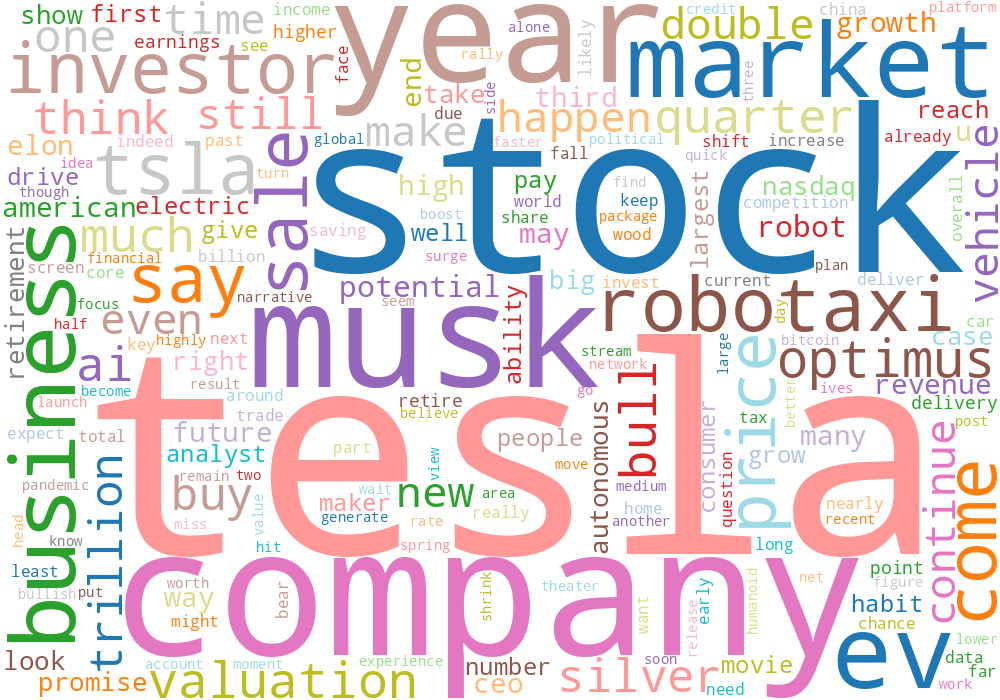
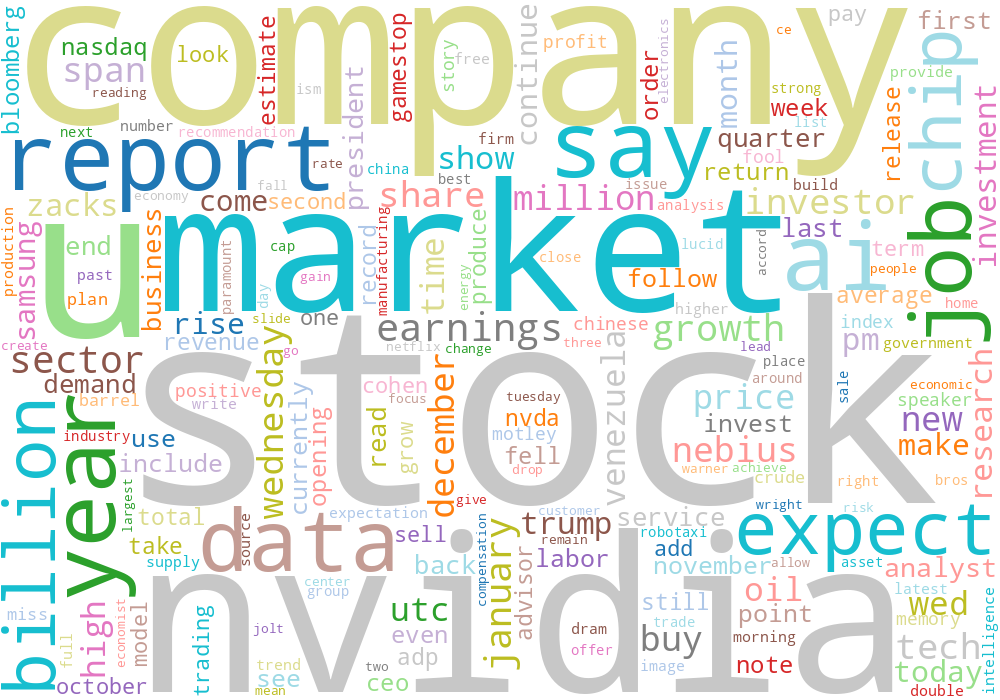
integrated text analyzer into stock analysis

diff --git a/analyze.py b/analyze.py
@@ -116,50 +116,51 @@ def cleanseWordList(posTaggedWordTuples):
     return cleansedWords
 
 
-# Get user details
-welcome_user()
-username = get_username()
-greet_user(username)
 
-# Extract and tokenize text
-articleTextRaw = getArticleText()
-articleSentences = tokenizeSentences(articleTextRaw)
-articleWords = tokenizeWords(articleSentences)
+def analyzeText(textToAnalyze):
+    articleSentences = tokenizeSentences(textToAnalyze)
+    articleWords = tokenizeWords(articleSentences)
 
-# Analytics
-stockSearchPattern = "[0-9]|[%$€£]|thousand|million|billion|trillion|profit|loss/g"
-keySentences = extractKeySentences(articleSentences, stockSearchPattern)
-wordsPerSentence = getWordsPerSentence(articleSentences)
+    # Analytics
+    stockSearchPattern = "[0-9]|[%$€£]|thousand|million|billion|trillion|profit|loss/g"
+    keySentences = extractKeySentences(articleSentences, stockSearchPattern)
+    wordsPerSentence = getWordsPerSentence(articleSentences)
 
-# Get word analytics
-wordsPosTagged = nltk.pos_tag(articleWords)
-articleWordsCleansed = cleanseWordList(wordsPosTagged)
+    # Get word analytics
+    wordsPosTagged = nltk.pos_tag(articleWords)
+    articleWordsCleansed = cleanseWordList(wordsPosTagged)
 
-# Generate word cloud
-seperator = " "
-wordCloudFilePath = "results/wordcloud.png"
-wordcloud = WordCloud(width = 1000, height = 700, random_state = 1, background_color = "white", colormap = "tab20", collocations = False).generate(seperator.join(articleWordsCleansed))
-wordcloud.to_file(wordCloudFilePath)
+    # Generate word cloud
+    seperator = " "
+    wordCloudFilePath = "results/wordcloud.png"
+    wordcloud = WordCloud(width = 1000, height = 700, random_state = 1, background_color = "white", colormap = "tab20", collocations = False).generate(seperator.join(articleWordsCleansed))
+    wordcloud.to_file(wordCloudFilePath)
 
-# Run sentiment analysis
-sentimentResult = sentimentAnalyzer.polarity_scores(articleTextRaw)
+    # Run sentiment analysis
+    sentimentResult = sentimentAnalyzer.polarity_scores(textToAnalyze)
 
-# collate analysis into one dictionary
-finalResult = {
-    "username": username,
-    "data":{
-        "keySentences": keySentences,
-        "wordsPerSentence": round(wordsPerSentence, 1),
-        "sentiment": sentimentResult,
-        "wordCloudFilePath": wordCloudFilePath
-    },
-    "metadata":{
-        "sentencesAnalyzed" : len(articleSentences),
-        "wordsAnalyzed" : len(articleWordsCleansed)
+    # collate analysis into one dictionary
+    finalResult = {
+        "data":{
+            "keySentences": keySentences,
+            "wordsPerSentence": round(wordsPerSentence, 1),
+            "sentiment": sentimentResult,
+            "wordCloudFilePath": wordCloudFilePath
+        },
+        "metadata":{
+            "sentencesAnalyzed" : len(articleSentences),
+            "wordsAnalyzed" : len(articleWordsCleansed)
+        }
     }
-}
-finalResultJson = json.dumps(finalResult, indent=4)
+    return finalResult
 
-# Printing to test code
-print(finalResultJson)
+def runAsFile():
+    # Get user details
+    welcome_user()
+    username = get_username()
+    greet_user(username)
+    analyzeText(articleTextRaw)
+
+    # Extract and tokenize text
+    articleTextRaw = getArticleText()
 

diff --git a/stockAnalyze.py b/stockAnalyze.py
@@ -1,7 +1,9 @@
+import json
 import yfinance as yf
 import requests
 from datetime import datetime, timedelta
 from bs4 import BeautifulSoup
+import analyze
 
 def extractBasicInfo(data):
     keysToExtract = [ "longName", "website", "sector", "fullTimeEmployees", "marketCap", "totalRevenue", "trailingEps"]
@@ -84,6 +86,10 @@ def getCompanyStockInfo(tickerSymbol):
     futureEarningsDates = getEarningsDates(company)
     newsArticles = getCompanyNews(company)
     newsArticleAllText = extractCompanyNewsArticle(newsArticles)
-    print(newsArticleAllText)
+    newsTextAnalysis = analyze.analyzeText(newsArticleAllText)
+
+    finalResulJson = json.dumps(newsTextAnalysis, indent=4)
+
+    print(finalResulJson)
 
 getCompanyStockInfo("NVDA")
